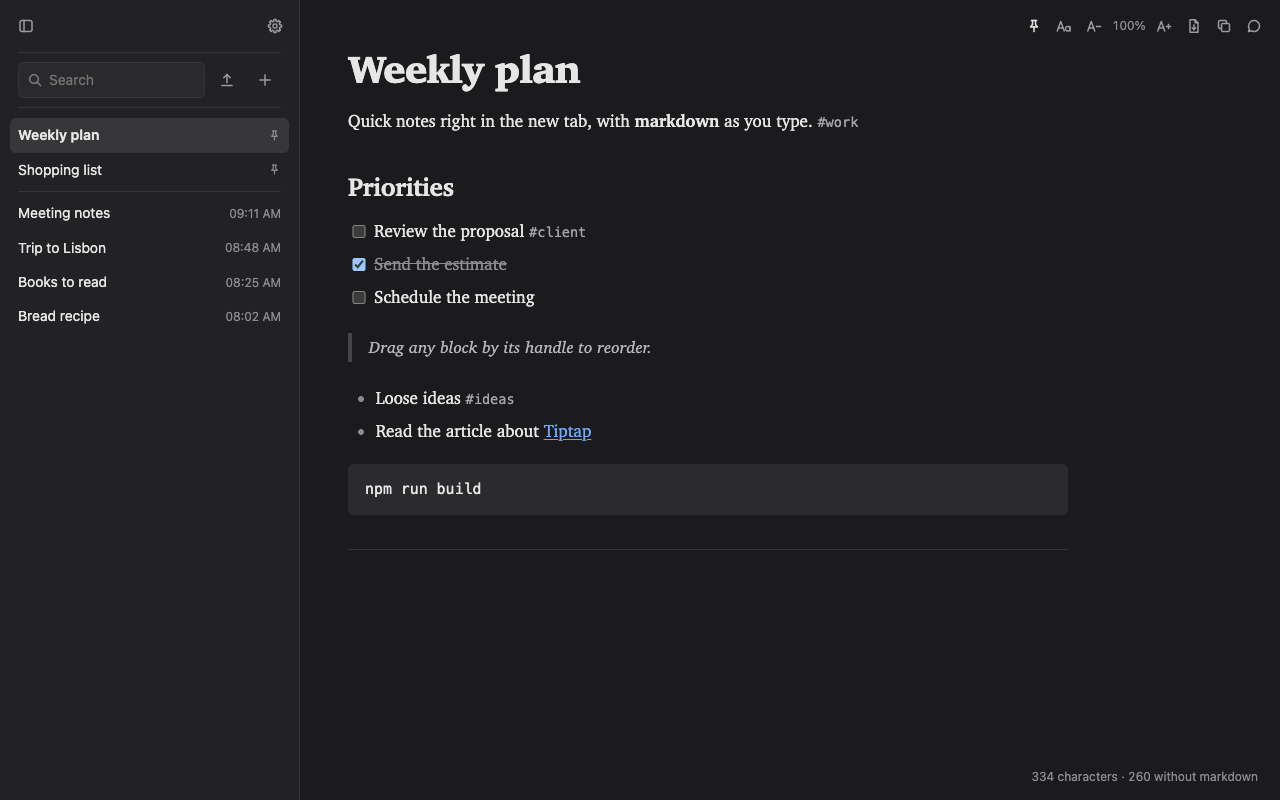
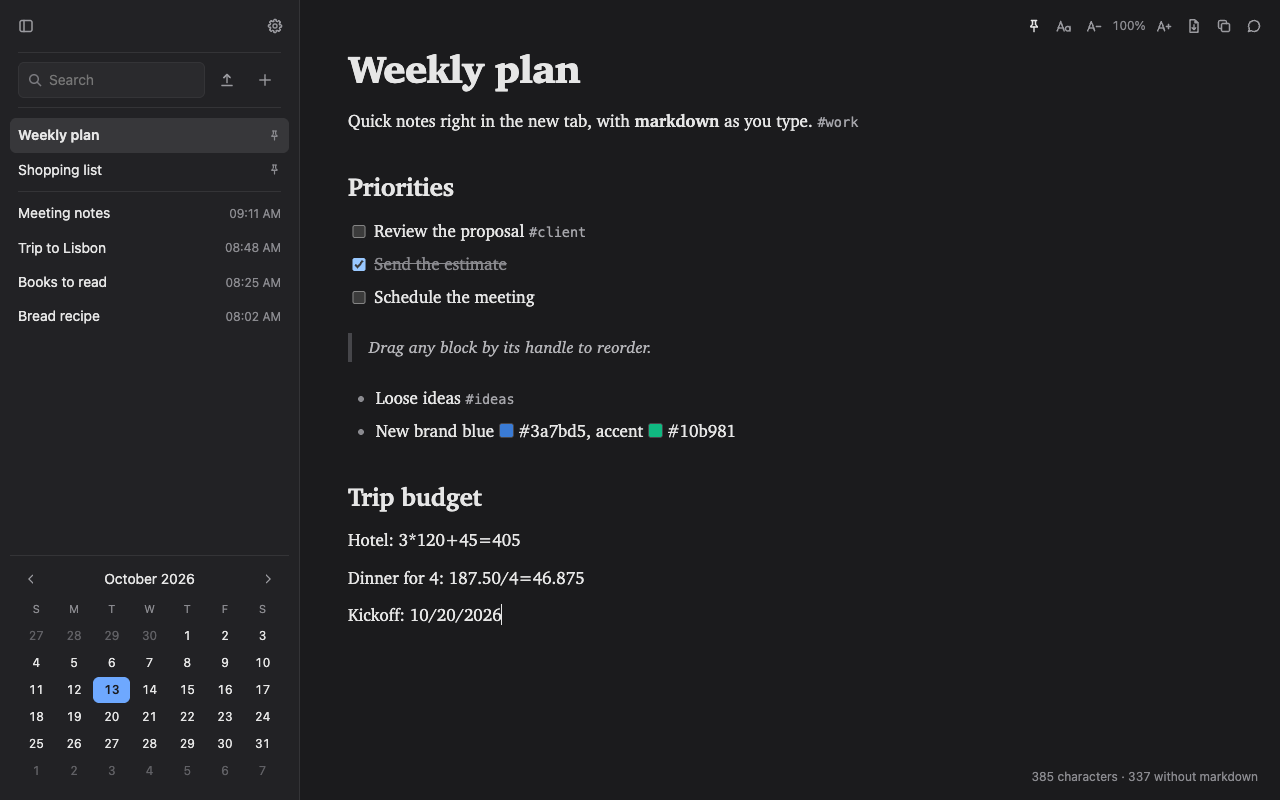
Version 1.2.0: screenshots, store listing and package ready

diff --git a/FEATURES.md b/FEATURES.md
@@ -9,14 +9,14 @@ How a feature moves:
 - Once done, it **leaves this file**: what changed goes to CHANGELOG.md (under the version in progress) and the rules to SPEC.md. The full detail stays in the git history.
 - A discarded idea goes to a "Discarded" section at the end, so it isn't proposed again.
 
-## Documentation
+## Release
 
-### Better README and store descriptions
-- **Status:** Done, waiting for the user's review. Checked against SPEC.md and CHANGELOG.md: every feature is in the README (by area, plus the shortcut table, structure, stored settings and tests) and in both store descriptions. Store descriptions: 3,329 (en) and 3,557 (pt-BR) of 16,000 characters; summaries 130 and 131 of 132. `npm run build` OK with the new summaries. The README links to the Chrome Web Store listing (at the top and in Install, with building from the source as a second option).
-- **Description:** explain every feature better: in the README, in a technical way; in the Chrome Web Store listing (en-US and pt-BR, in STORE.md), in a marketing way.
-- **Motivation:** the texts were missing recent features (direct request on 2026-10-13).
-- **Deliverable:** README with every current feature (shortcuts, rules and limits), the project structure and the stored settings up to date; STORE.md descriptions in English and Portuguese covering every feature, written to sell.
-- **How to verify:** compare the README and STORE.md against SPEC.md and CHANGELOG.md (no feature missing, nothing that doesn't exist); the store descriptions fit the store's limit (16,000 characters) and the summaries the manifest's (132).
+### Version 1.2.0 for the Chrome Web Store
+- **Status:** Ready, waiting for the user to submit it. `npm test`: 14 files, 195 tests passing; `npm run zip` built `draftab-1.2.0.zip` (212 KB, manifest version 1.2.0). Screenshots regenerated from the real extension in headless Chrome (clean profile, demo notes), all 1280×800: 1 main note (tags, color swatches, calculations typed live — `3*120+45=405`, `187.50/4=46.875` / `187,50/4=46,875` — and a date inserted from the calendar), 2 dragging a block, 3 tag suggestions, 4 dark theme with serif font, 5 Settings (appearance, calendar, calculations); in English and Portuguese. README screenshots are the English 1 and 4.
+- **Description:** everything ready to submit the update: version, screenshots and package.
+- **Motivation:** direct request on 2026-10-13.
+- **Deliverable:** version 1.2.0 in `package.json`, `public/manifest.json`, CHANGELOG.md and STORE.md; the 5 store screenshots (en and pt-BR) and the README screenshots regenerated from the real extension, showing the new features; `draftab-1.2.0.zip`.
+- **How to verify:** `npm test` and `npm run zip` pass; the zip has version 1.2.0 in its manifest; look at every screenshot (1280×800, right language, new features visible).
 
 ## Editor
 

diff --git a/STORE.md b/STORE.md
@@ -6,11 +6,11 @@ Everything the Chrome Web Store developer dashboard asks for, ready to copy. The
 
 - **1.0.0:** live on the Chrome Web Store: https://chromewebstore.google.com/detail/draftab/oamemjkhgfcoelilpnjpemllbmladaog
 - **1.1.0:** submitted as an update, in review (what's in it: CHANGELOG.md).
-- **1.1.1 (next update):** the listing texts below already describe it (calculations, calendar, color swatches, note title in the browser tab): paste them when submitting 1.1.1, not before. The summaries come from the manifest, so they change with the 1.1.1 package. The screenshots are still the 1.1.0 ones.
+- **1.2.0:** ready to upload as an update (what's in it: CHANGELOG.md); the listing texts and screenshots below are for 1.2.0.
 
 ## Package
 
-- **File:** `draftab-1.1.0.zip` (run `npm run zip`)
+- **File:** `draftab-1.2.0.zip` (run `npm run zip`)
 - **Default language:** English (`default_locale: en`); the listing is also localized to Portuguese (Brazil). The extension's interface is in English and Portuguese (Settings → Language; automatic by default, following Chrome).
 - The package includes a notices file with the licenses of the bundled dependencies (required by their MIT licenses).
 
@@ -168,7 +168,7 @@ Screenshots are generated from the real extension (regenerate them when somethin
 
 1. **Before submitting:** push the repository to GitHub (the privacy policy URL must be public) and run `npm run zip`.
 2. **Developer account:** go to <https://chrome.google.com/webstore/devconsole>, sign in with your Google account, accept the agreement and pay the one-time US$ 5 registration fee. Verify the contact email the dashboard asks for.
-3. **New item:** click **New item** and upload `draftab-1.1.0.zip`.
+3. **New item:** click **New item** and upload `draftab-1.2.0.zip`.
 4. **Store listing tab:**
    - Description: paste the English description above.
    - Category and language: as in "Other listing fields".

diff --git a/CHANGELOG.md b/CHANGELOG.md
@@ -2,7 +2,9 @@
 
 All notable changes to Draftab are documented here. The format is based on [Keep a Changelog](https://keepachangelog.com/en/1.1.0/), and versions follow [Semantic Versioning](https://semver.org/).
 
-## [1.1.1] — unreleased
+## [1.2.0] — 2026-10-13
+
+Ready to upload to the Chrome Web Store as an update.
 
 ### Added
 - **Calculations after `=`**: typing a calculation without spaces followed by `=` (`2*5=`) writes the result right after it (`2*5=10`): `+ - * /`, parentheses and decimals, with the usual precedence. Nothing happens for invalid calculations (like `1/0=`), in code, or when pasting; Backspace right after removes the result. Settings → Calculations ("Cálculos" in Portuguese) turns them off and picks the decimal separator: Automatic (follows the interface language), `.` or `,`; both apply to every open tab and goes into backups.

diff --git a/README.md b/README.md
@@ -233,7 +233,6 @@ Contributions are welcome. To propose a change:
 ### Known limitations
 
 - Notes only exist in this browser; there's no sync across computers (the JSON backup covers moving them manually).
-- **Shift+Tab** doesn't outdent list items: Chrome switches tabs instead. Drag the item to the left with its handle.
 
 ## License
 
